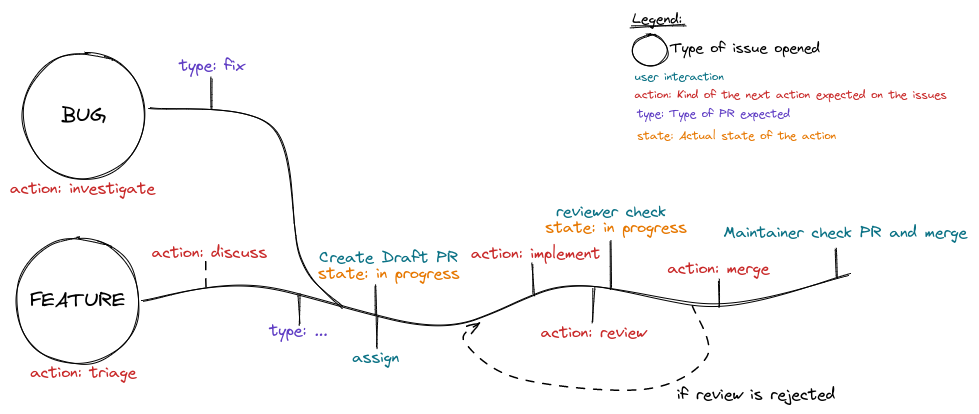
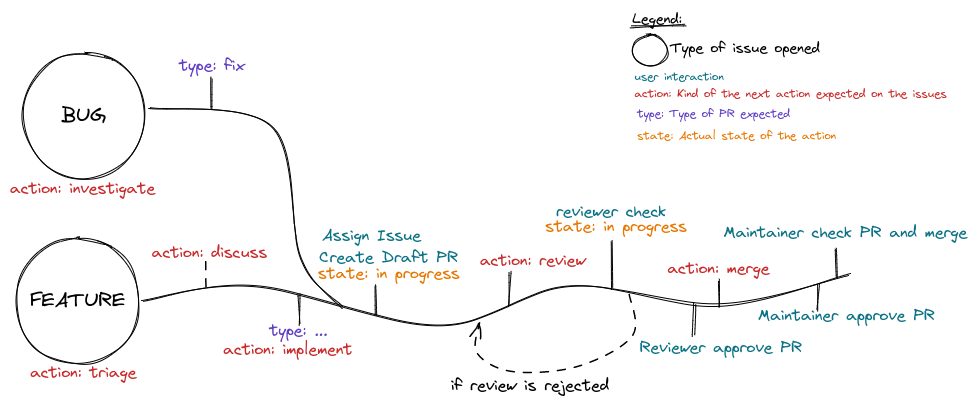
build: update contribution guide

diff --git a/CONTRIBUTING.md b/CONTRIBUTING.md
@@ -18,6 +18,7 @@ To understand well how we are using labels, refer to this definition for each la
 - `state: ...` The state of the issue (according with the action)
 - `type: ...` The type of Pull Request expected to be performed on the issue
 - `priority: ...` The priority of treatement of the issue
+- `semver: ...` Specific to Pull Request, the kind of version to be released
 - We also use some common labels like `breaking changes`, `help wanted` and `good first issue`.
 
 _Using our templates for issues and bug report, labels should be automatically provided._
@@ -30,7 +31,7 @@ When you are creating a pull request, consider using templates provided and fill
 
 **Your pull request have to be rebased before asking for merge**
 
-When your Pull Request is ready to be reviewed, you can ask for "triage" by adding the label :
+When your Pull Request is ready to be reviewed, you can ask for "review" by adding the label :
 `action: review`
 
 This label inform that the Pull Request is ready to be reviewed according to the contributor, the Pull Request will be checked in a first step by a maintainer using the following criterias:
@@ -43,6 +44,8 @@ This label inform that the Pull Request is ready to be reviewed according to the
 If the maintainer validates the relevance and form of the Pull Request, he will switch the label to `action: merge`.
 
 A Pull Request with `action: merge` need to be reviewed by a maintainer and merged if all OK.
+
+NOTE: A pull request need 2 approvals to be merged.
 
 ## Commits conventions
 
@@ -143,3 +146,7 @@ The footer should contain any information about Breaking Changes and is also the
 Please consider signing the commit message at least with `Signed-Off-By`.
 
 ## Setup your developer environment
+
+## Contact
+
+If you have any questions, feel free to contact us on [Discord](https://discord.gg/AMDF6sQnTN).
